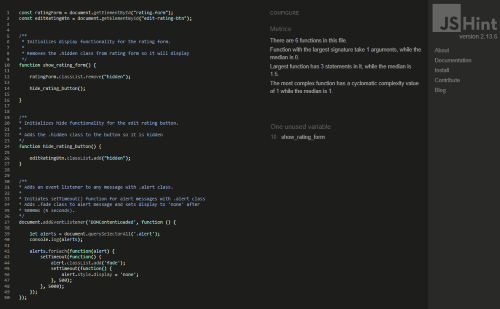
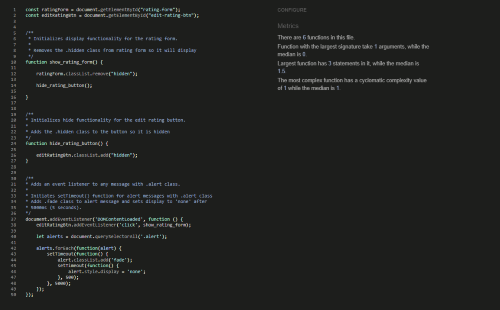
Resolve JSHint warning by moving onclick event listener out of template into js script.

diff --git a/cookbook/templates/cookbook/recipe_detail.html b/cookbook/templates/cookbook/recipe_detail.html
@@ -291,7 +291,7 @@
                                         <button type="submit" class="btn btn-edit">Submit Rating</button>
                                     </form>
                                     <!-- Rating form .hidden class removed if Edit Rating button clicked -->
-                                    <button id="edit-rating-btn" class="btn btn-edit" onclick="show_rating_form()">Edit Rating</button>
+                                    <button id="edit-rating-btn" class="btn btn-edit">Edit Rating</button>
                                     {% else %}
                                     <!-- Rating form if no rating exists yet -->
                                     <p>You haven't submitted a rating for this recipe yet.</p>

diff --git a/static/js/script.js b/static/js/script.js
@@ -35,6 +35,7 @@ function hide_rating_button() {
 * 5000ms (5 seconds).
 */
 document.addEventListener('DOMContentLoaded', function () {
+    editRatingBtn.addEventListener('click', show_rating_form);
     
     let alerts = document.querySelectorAll('.alert');
 

diff --git a/staticfiles/js/script.js b/staticfiles/js/script.js
@@ -35,6 +35,7 @@ function hide_rating_button() {
 * 5000ms (5 seconds).
 */
 document.addEventListener('DOMContentLoaded', function () {
+    editRatingBtn.addEventListener('click', show_rating_form);
     
     let alerts = document.querySelectorAll('.alert');
 
